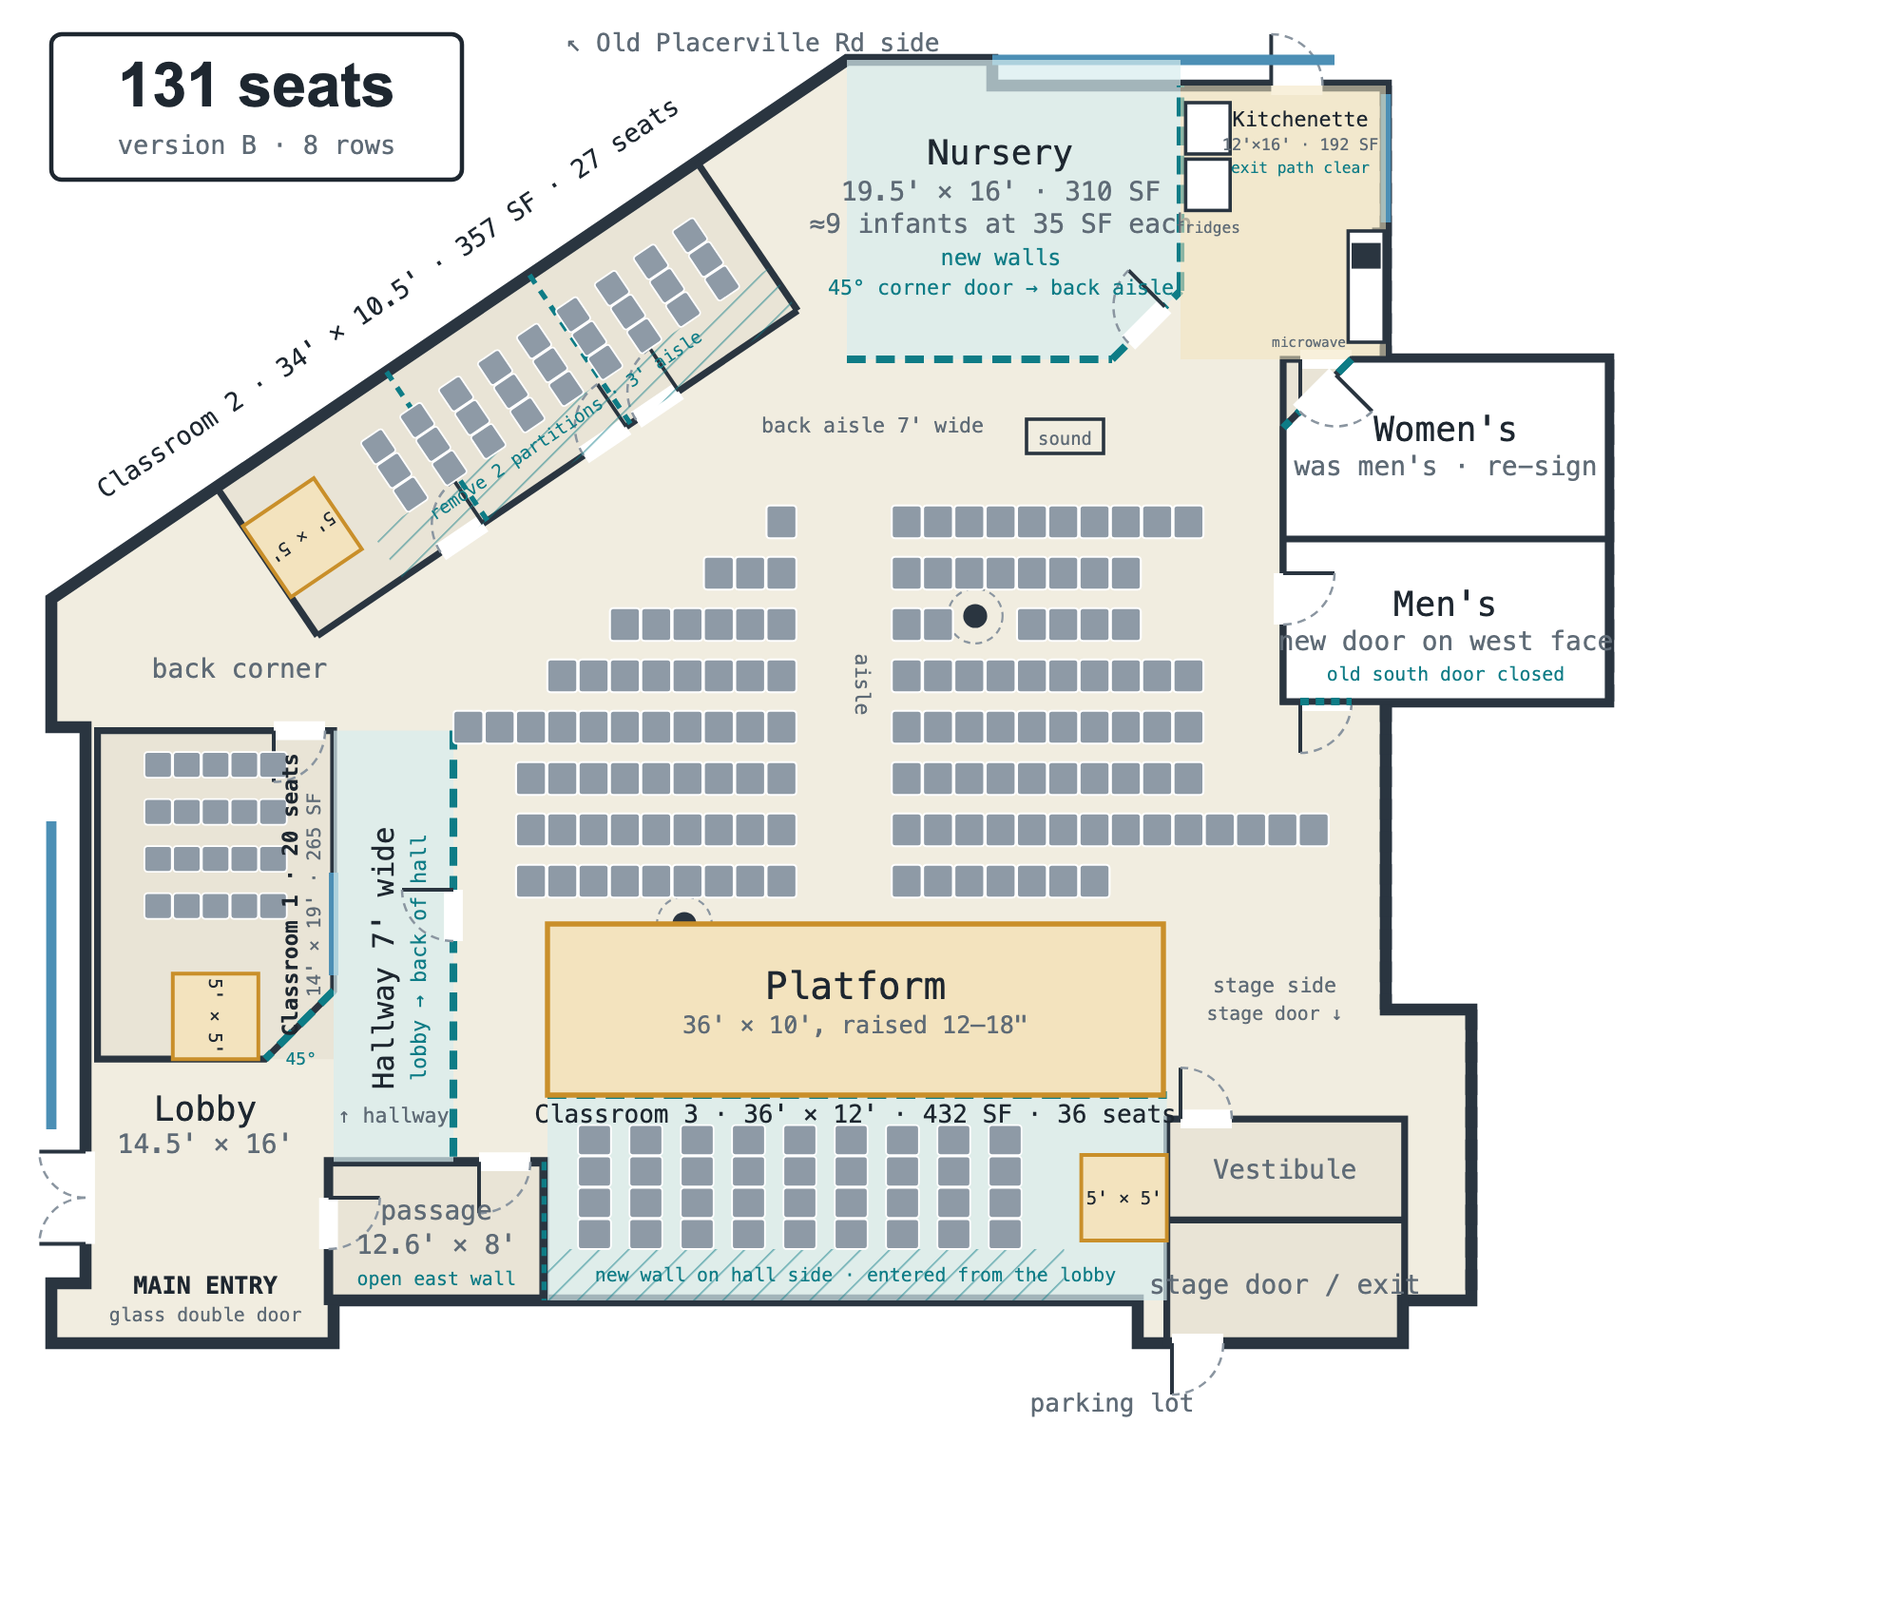
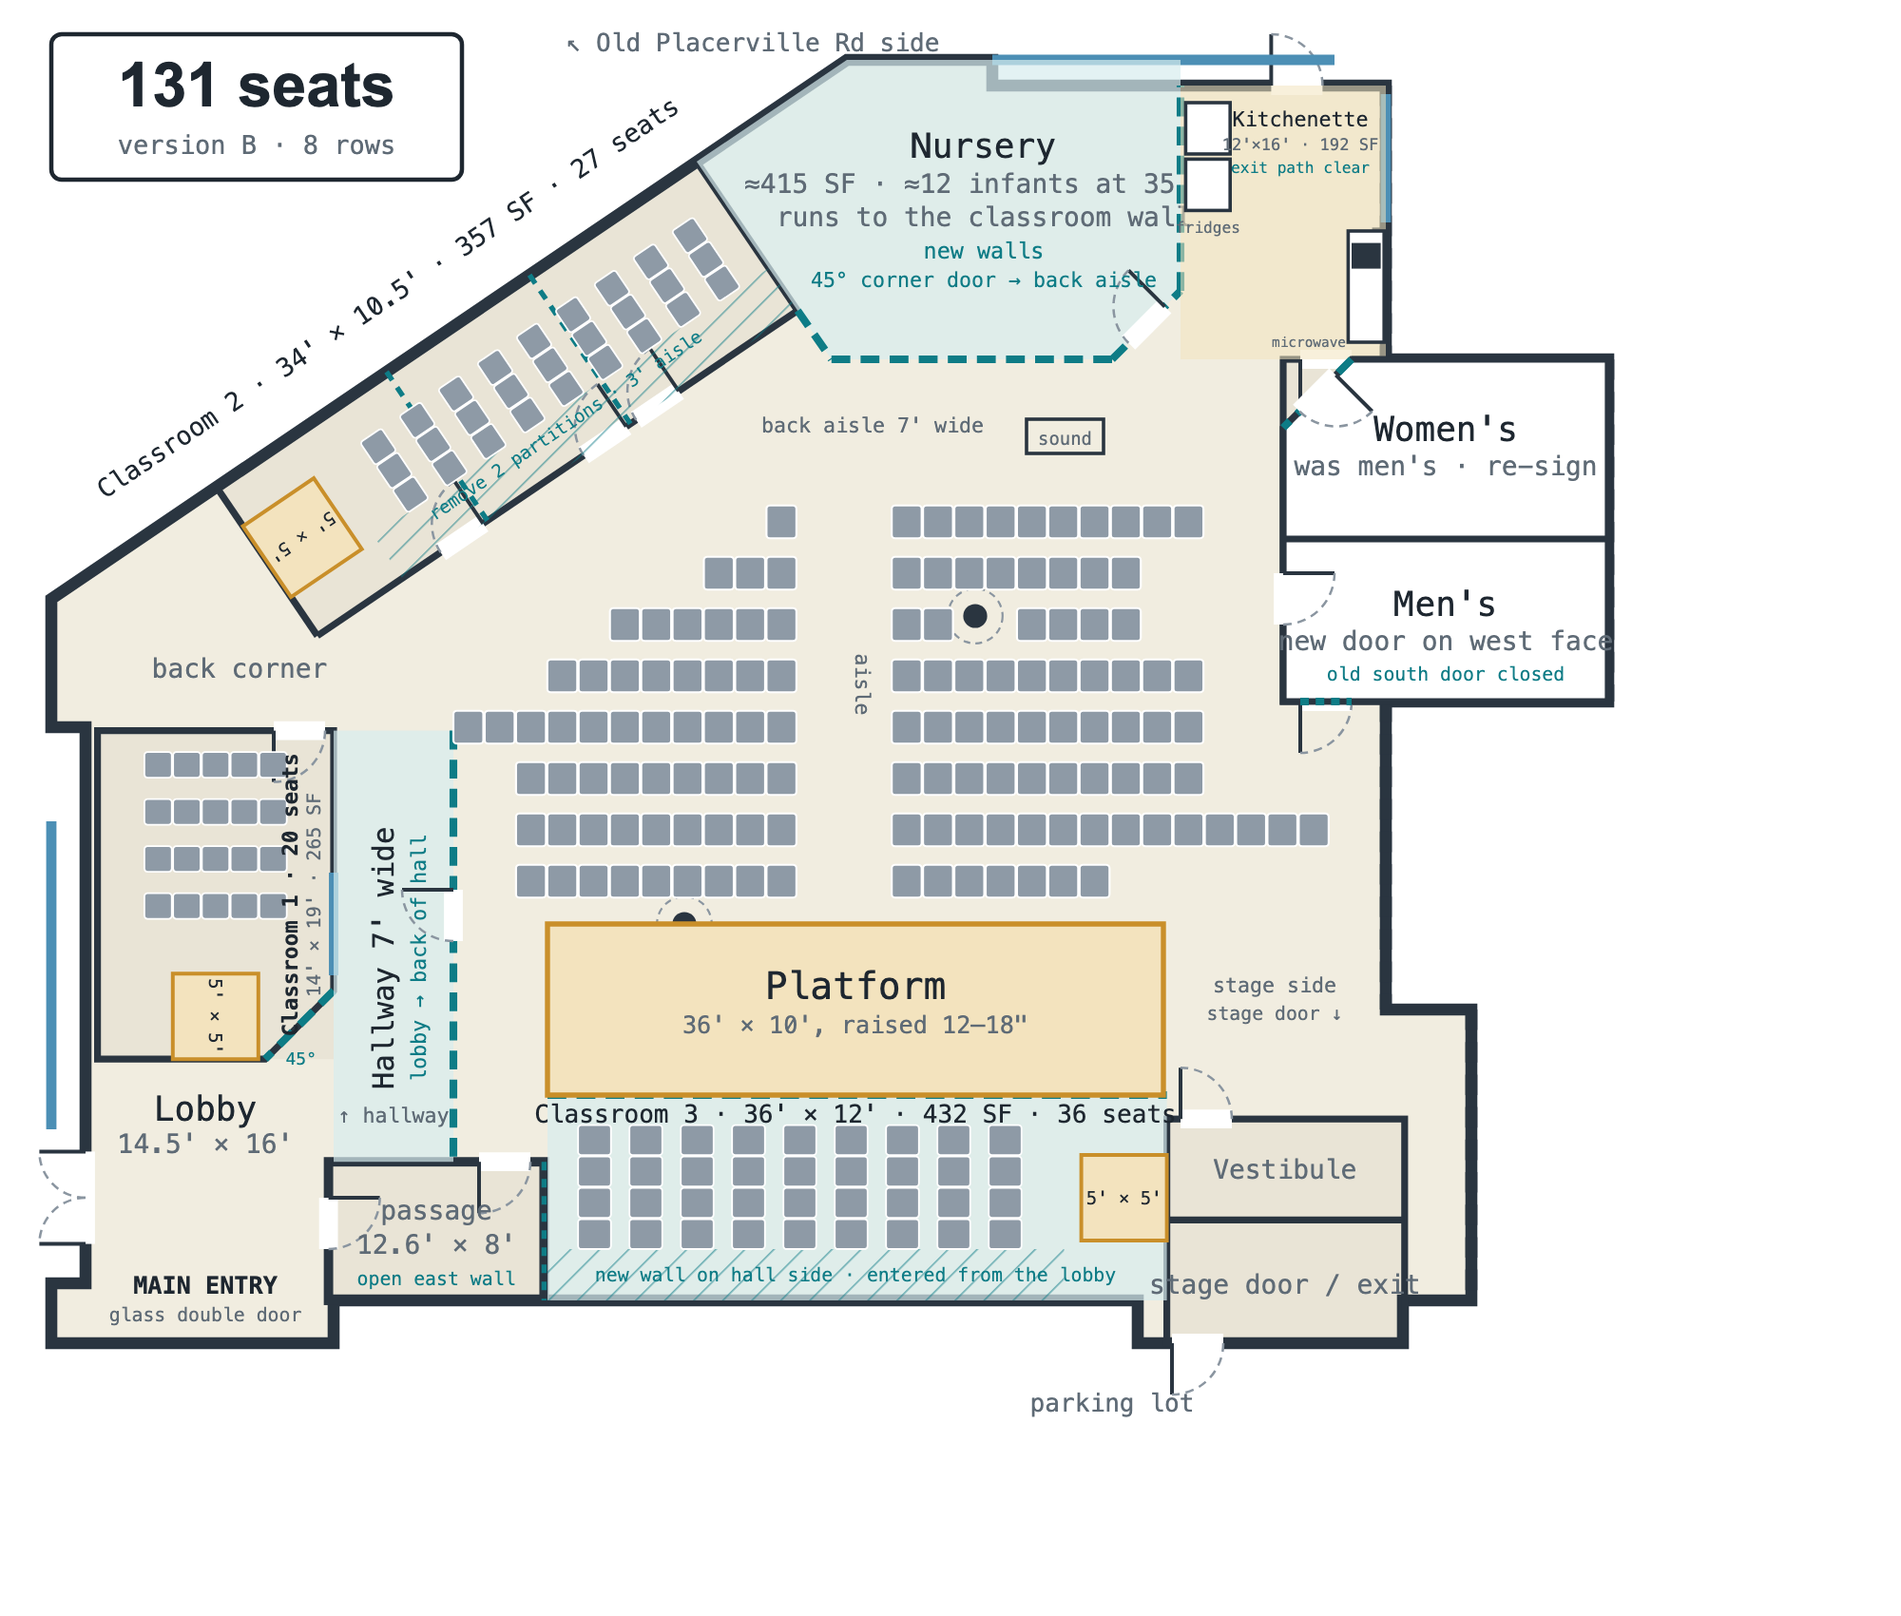
Nursery to the classroom wall, sound booth, whole-building composite

Changed region(s): [[0.372, 0.0624, 0.62, 0.1871], [0.434, 0.2182, 0.558, 0.2494], [0.403, 0.1871, 0.434, 0.2182]]

diff --git a/plans.html b/plans.html
@@ -2,7 +2,7 @@
 <html lang="en">
 <head>
 <meta charset="utf-8">
-<meta name="viewport" content="width=device-width, initial-scale=1">
+<meta name="viewport" content="width=device-width, initial-scale=1, viewport-fit=cover">
 <meta name="robots" content="noindex">
 </head>
 <body style="margin:0">
@@ -164,7 +164,8 @@
       <table>
         <thead><tr><th>Room (all options)</th><th>Size</th><th class="num">SF</th><th class="num">Seats</th></tr></thead>
         <tbody>
-          <tr><td>Nursery (north strip, 2 new walls, 45° corner door onto the back aisle; no teaching area)</td><td>19.5 × 16</td><td class="num">≈310</td><td class="num">≈9 infants</td></tr>
+          <tr><td>Nursery (north strip plus the triangle to the classroom wall, 2 new walls, 45° corner door onto the back aisle; no teaching area)</td><td>irregular</td><td class="num">≈415</td><td class="num">≈12 infants</td></tr>
+          <tr><td>Sound booth, carved out of the back middle of the seating beside the center aisle</td><td>8 × 6</td><td class="num">48</td><td class="num"></td></tr>
           <tr><td>Kitchenette (the old alcove): microwave, two refrigerators, rear exit path kept clear</td><td>12 × 16</td><td class="num">192</td><td class="num"></td></tr>
           <tr><td>Classroom 1 (existing 14 × 19 room, window into hall, corner cut at 45° toward the lobby), 5 × 5 teaching area, no aisle</td><td>14 × 19</td><td class="num">265</td><td class="num" id="seatsC1">—</td></tr>
           <tr><td>Classroom 2 (3 offices, remove 2 partitions), 5 × 5 teaching area</td><td>34 × 10.5</td><td class="num">357</td><td class="num" id="seatsC2">—</td></tr>
@@ -348,7 +349,8 @@
   const inPoly = (pt, poly) => { let c = false; for (let i = 0, j = poly.length - 1; i < poly.length; j = i++) { const a = poly[i], b = poly[j]; if ((a[1] > pt[1]) !== (b[1] > pt[1]) && pt[0] < (b[0] - a[0]) * (pt[1] - a[1]) / (b[1] - a[1]) + a[0]) c = !c; } return c; };
   const area = (poly) => Math.abs(poly.reduce((acc, p, i) => { const q = poly[(i + 1) % poly.length]; return acc + p[0] * q[1] - q[0] * p[1]; }, 0)) / 2;
   const Nn = [0.561, 0.828];
-  const HALL = [Q(10.6), [49.5, 25], [75, 25], [75, 45], [81, 45], [81, 63], [86, 63], [86, 69.4], [68.2, 69.4], [68.2, 68], [32, 68], [32, 71.9], [26.5, 71.9], [26.5, 46.7], [19.5, 46.7], Q(44.5)];
+  const BOOTH = (F) => [F.toW(-6, 7.25), F.toW(2, 7.25), F.toW(2, 13.25), F.toW(-6, 13.25)];
+  const HALL = [Q(10.6), [48.6, 25], [75, 25], [75, 45], [81, 45], [81, 63], [86, 63], [86, 69.4], [68.2, 69.4], [68.2, 68], [32, 68], [32, 71.9], [26.5, 71.9], [26.5, 46.7], [19.5, 46.7], Q(44.5)];
   const OFFICE = [[3, 39], S(44.5), Q(44.5), [19.5, 46.7], [5.7, 46.7], [5, 46.5]];
   const FACEBAND = [Q(10.6), Q(44.5), [Q(44.5)[0] + 7 * Nn[0], Q(44.5)[1] + 7 * Nn[1]], [Q(10.6)[0] + 7 * Nn[0], Q(10.6)[1] + 7 * Nn[1]]];
   const COLS = [[57, 40], [40, 58]];
@@ -363,7 +365,7 @@
     const D = [-0.828, 0.561], O = Q(10.6);
     return {
       platform, backstage, nurseryAisle, mensDoor, oldDoor,
-      keepOut: [platform, backstage, oldDoor, nurseryAisle, mensDoor, FACEBAND],
+      keepOut: [platform, backstage, oldDoor, nurseryAisle, mensDoor, FACEBAND, BOOTH({ toW: (X, Y) => [O[0] - D[0] * X + Nn[0] * Y, O[1] - D[1] * X + Nn[1] * Y] })],
       frame: { toW: (X, Y) => [O[0] - D[0] * X + Nn[0] * Y, O[1] - D[1] * X + Nn[1] * Y], rot: -34.1 },
       rows: { Y0: 8, Y1: 35, X0: -62, X1: 32, aisle: [-10, -6] }
     };
@@ -486,10 +488,11 @@
 
     // ---- shared rooms ----
     if (A1) { o += rect(49.5, 7.5, 19.5, 17.5, newFill); o += line(49.5, 25, 69, 25, newWall) + line(69, 9, 69, 25, newWall) + door(69, 18, 90, -1); }
-    else { o += poly([[49.5, 7.5], [69, 7.5], [69, 21], [65, 25], [49.5, 25]], newFill);
-    o += line(49.5, 25, 65, 25, newWall) + line(65, 25, 69, 21, newWall) + line(69, 21, 69, 9, newWall);
+    else { o += poly([[40.72, 13.45], [49.5, 7.5], [69, 7.5], [69, 21], [65, 25], [48.6, 25], [46.62, 22.15]], newFill);
+    o += line(46.62, 22.15, 48.6, 25, newWall) + line(48.6, 25, 65, 25, newWall) + line(65, 25, 69, 21, newWall) + line(69, 21, 69, 9, newWall);
     o += door(68.08, 21.92, 135, -1); }
-    o += text(58.5, 13.6, 'Nursery', lab) + text(58.5, 15.7, "19.5' × 16' · 310 SF", labS) + text(58.5, 17.6, '≈9 infants at 35 SF each', labS) + text(58.5, 19.5, 'new walls', 'fill="var(--accent)" font-size="1.3" text-anchor="middle"') + text(58.5, 21.2, '45° corner door → back aisle', 'fill="var(--accent)" font-size="1.2" text-anchor="middle"');
+    if (A1) o += text(58.5, 13.6, 'Nursery', lab) + text(58.5, 15.7, "19.5' × 17.5' · 340 SF", labS) + text(58.5, 17.6, '≈9 infants at 35 SF each', labS);
+    else o += text(57.5, 13.2, 'Nursery', lab) + text(57.5, 15.3, "≈415 SF · ≈12 infants at 35 SF", labS) + text(57.5, 17.2, 'runs to the classroom wall', labS) + text(57.5, 19.1, 'new walls', 'fill="var(--accent)" font-size="1.3" text-anchor="middle"') + text(57.5, 20.8, '45° corner door → back aisle', 'fill="var(--accent)" font-size="1.2" text-anchor="middle"');
     if (A1) { o += text(75, 13, 'family', labS) + text(75, 14.9, 'alcove', labS) + text(75, 16.8, 'rear exit ↑', 'fill="var(--muted)" font-size="1.1" text-anchor="middle"');
       o += rect(75, 25, 19, 20, 'fill="var(--panel)" stroke="none"') + rect(75, 25, 19, 20, innerAttr) + line(75, 35.5, 94, 35.5, innerAttr) + door(76, 25, 0, -1); }
     else { o = kitchenette(o, newWall, false);
@@ -524,10 +527,11 @@
     let platform, backstage = null, keepOut, frame, rows, cfg;
     if (opt === 'B') {
       platform = [[50, 68], [75, 51.1], [75, 61], [66.2, 68]];
+      // (booth keep-out is added below for A2 only)
       backstage = [[66.2, 68], [81, 58], [81, 63], [86, 63], [86, 69.4], [68.2, 69.4], [68.2, 68]];
-      keepOut = [platform, backstage, oldDoor, nurseryAisle, mensDoor, faceBand];
       const D = [-0.828, 0.561], O = Q(10.6);
       frame = { toW: (X, Y) => [O[0] - D[0] * X + Nn[0] * Y, O[1] - D[1] * X + Nn[1] * Y], rot: -34.1 };
+      keepOut = [platform, backstage, oldDoor, nurseryAisle, mensDoor, faceBand].concat(A1 ? [] : [BOOTH(frame)]);
       rows = { Y0: 8, Y1: 37, X0: -62, X1: 32, aisle: [-10, -6] };
       o += poly(platform, 'fill="var(--amber-soft)" stroke="var(--amber)" stroke-width="0.3"');
       o += poly(backstage, 'fill="var(--exist)" stroke="none"');
@@ -536,8 +540,8 @@
       o += `<text x="${pc[0]}" y="${pc[1]}" fill="var(--ink)" font-size="2.2" text-anchor="middle" transform="rotate(-34 ${pc[0]} ${pc[1]})"><tspan x="${pc[0]}" dy="-0.3">Platform</tspan><tspan x="${pc[0]}" dy="2" font-size="1.4" fill="var(--muted)">30' × 9', raised 12–18"</tspan></text>`;
       if (A1) { o += text(77, 65.5, 'backstage', 'fill="var(--muted)" font-size="1.3" text-anchor="middle"') + text(77, 67.2, 'stage door ↓', 'fill="var(--muted)" font-size="1.1" text-anchor="middle"') + text(75.1, 72.9, 'Vestibule', labS) + text(75.1, 79.6, 'stage door / exit', labS); }
       else o = platformExtras(o, newWall);
-      const sd = frame.toW(-31.5, 2.6);
-      o += `<g transform="rotate(-34.1 ${fmt(sd[0])} ${fmt(sd[1])})">${rect(fmt(sd[0]), fmt(sd[1]), 4.5, 2, 'fill="none" stroke="var(--wall)" stroke-width="0.2"')}<text x="${fmt(sd[0] + 2.25)}" y="${fmt(sd[1] + 1.5)}" fill="var(--muted)" font-size="1.05" text-anchor="middle">sound</text></g>`;
+      if (A1) { const sd = frame.toW(-31.5, 2.6); o += `<g transform="rotate(-34.1 ${fmt(sd[0])} ${fmt(sd[1])})">${rect(fmt(sd[0]), fmt(sd[1]), 4.5, 2, 'fill="none" stroke="var(--wall)" stroke-width="0.2"')}<text x="${fmt(sd[0] + 2.25)}" y="${fmt(sd[1] + 1.5)}" fill="var(--muted)" font-size="1.05" text-anchor="middle">sound</text></g>`; }
+      else { const bp = BOOTH(frame); o += poly(bp, 'fill="var(--exist)" stroke="var(--accent)" stroke-width="0.35" stroke-dasharray="0.9 0.5"'); const bc = frame.toW(-2, 10.25); o += `<text x="${fmt(bc[0])}" y="${fmt(bc[1])}" fill="var(--ink)" font-size="1.05" text-anchor="middle" transform="rotate(-34.1 ${fmt(bc[0])} ${fmt(bc[1])})"><tspan x="${fmt(bc[0])}" dy="-0.3">Sound booth</tspan><tspan x="${fmt(bc[0])}" dy="1.4">8' × 6'</tspan></text>`; }
       const bl = frame.toW(-14, 3.6);
       o += `<text x="${fmt(bl[0])}" y="${fmt(bl[1])}" fill="var(--muted)" font-size="1.2" text-anchor="middle" transform="rotate(-34.1 ${fmt(bl[0])} ${fmt(bl[1])})">back aisle 7' wide</text>`;
       const al = frame.toW(-8, 22);
@@ -639,9 +643,10 @@
     o += base('proposed');
     // rooms (short labels)
     const newWall = 'stroke="var(--accent)" stroke-width="0.45" stroke-dasharray="1.1 0.6" fill="none"';
-    o += poly([[49.5, 7.5], [69, 7.5], [69, 21], [65, 25], [49.5, 25]], 'fill="var(--accent-soft)" stroke="none" opacity="0.7"');
-    o += line(49.5, 25, 65, 25, newWall) + line(65, 25, 69, 21, newWall) + line(69, 21, 69, 9, newWall) + door(68.08, 21.92, 135, -1);
-    o += text(59.2, 15.5, 'Nursery', lab) + text(59.2, 17.5, "19.5' × 16' · ≈9 infants", labS);
+    o += poly([[40.72, 13.45], [49.5, 7.5], [69, 7.5], [69, 21], [65, 25], [48.6, 25], [46.62, 22.15]], 'fill="var(--accent-soft)" stroke="none" opacity="0.7"');
+    o += line(46.62, 22.15, 48.6, 25, newWall) + line(48.6, 25, 65, 25, newWall) + line(65, 25, 69, 21, newWall) + line(69, 21, 69, 9, newWall) + door(68.08, 21.92, 135, -1);
+    o += text(57.5, 15.5, 'Nursery', lab) + text(57.5, 17.5, "≈415 SF · ≈12 infants", labS);
+    { const bp = BOOTH(F); o += poly(bp, 'fill="var(--exist)" stroke="var(--accent)" stroke-width="0.35" stroke-dasharray="0.9 0.5"'); const bc = F.toW(-2, 10.25); o += `<text x="${fmt(bc[0])}" y="${fmt(bc[1])}" fill="var(--ink)" font-size="1.05" text-anchor="middle" transform="rotate(-34.1 ${fmt(bc[0])} ${fmt(bc[1])})"><tspan x="${fmt(bc[0])}" dy="-0.3">SOUND BOOTH</tspan><tspan x="${fmt(bc[0])}" dy="1.4">8' × 6'</tspan></text>`; }
     o = kitchenette(o, newWall, true);
     o += poly([[79, 25], [94, 25], [94, 45], [75, 45], [75, 29]], 'fill="var(--panel)" stroke="none"') + poly([[79, 25], [94, 25], [94, 45], [75, 45], [75, 29]], innerAttr) + line(75, 35.5, 94, 35.5, innerAttr) + line(79, 25, 75, 29, newWall);
     o += door(78.08, 25.92, 135, 1) + door(75, 37.5, 90, 1) + line(76, 45, 79, 45, 'stroke="var(--accent)" stroke-width="0.45" stroke-dasharray="0.5 0.4"');

diff --git a/index.html b/index.html
@@ -63,7 +63,7 @@
   const Q = (s) => { const p = S(s); return [p[0] + 5.9, p[1] + 8.7]; };
   const Nn = [0.561, 0.828];
   const OUTLINE = [[49.5, 7.5], [58, 7.5], [58, 9], [81, 9], [81, 25], [94, 25], [94, 45], [81, 45], [81, 63], [86, 63], [86, 80], [82, 80], [82, 82.5], [66.5, 82.5], [66.5, 80], [19.5, 80], [19.5, 82.5], [3, 82.5], [3, 79], [5, 79], [5, 46.5], [3, 46.5], [3, 39]];
-  const HALL = [Q(10.6), [49.5, 25], [75, 25], [75, 45], [81, 45], [81, 63], [86, 63], [86, 69.4], [68.2, 69.4], [68.2, 68], [32, 68], [32, 71.9], [26.5, 71.9], [26.5, 46.7], [19.5, 46.7], Q(44.5)];
+  const HALL = [Q(10.6), [48.6, 25], [75, 25], [75, 45], [81, 45], [81, 63], [86, 63], [86, 69.4], [68.2, 69.4], [68.2, 68], [32, 68], [32, 71.9], [26.5, 71.9], [26.5, 46.7], [19.5, 46.7], Q(44.5)];
   const OFFICE = [[3, 39], S(44.5), Q(44.5), [19.5, 46.7], [5.7, 46.7], [5, 46.5]];
   const FACEBAND = [Q(10.6), Q(44.5), [Q(44.5)[0] + 7 * Nn[0], Q(44.5)[1] + 7 * Nn[1]], [Q(10.6)[0] + 7 * Nn[0], Q(10.6)[1] + 7 * Nn[1]]];
   const COLS = [[57, 40], [40, 58]];
@@ -71,9 +71,11 @@
   const inPoly = (pt, poly) => { let c = false; for (let i = 0, j = poly.length - 1; i < poly.length; j = i++) { const a = poly[i], b = poly[j]; if ((a[1] > pt[1]) !== (b[1] > pt[1]) && pt[0] < (b[0] - a[0]) * (pt[1] - a[1]) / (b[1] - a[1]) + a[0]) c = !c; } return c; };
   const platform = [[50, 68], [75, 51.1], [75, 61], [66.2, 68]];
   const backstage = [[66.2, 68], [81, 58], [81, 63], [86, 63], [86, 69.4], [68.2, 69.4], [68.2, 68]];
+  const BOOTHP = [[-6, 7.25], [2, 7.25], [2, 13.25], [-6, 13.25]];
   const keepOut = [platform, backstage, [[75, 45], [81, 45], [81, 50.5], [75, 50.5]], [[46.6, 25], [75, 25], [75, 28.5], [46.6, 28.5]], [[70.5, 35], [75, 35], [75, 42], [70.5, 42]], FACEBAND];
   const D = [-0.828, 0.561], O = Q(10.6);
   const toW = (X, Y) => [O[0] - D[0] * X + Nn[0] * Y, O[1] - D[1] * X + Nn[1] * Y];
+  keepOut.push(BOOTHP.map(p => toW(p[0], p[1])));
   const rows = { Y0: 8, Y1: 35, X0: -62, X1: 32, aisle: [-10, -6] };
   function placeHallChairs() {
     const out = [];
@@ -162,7 +164,7 @@
   flat(rectPts(19.2, 71.9, 31.8, 80), M.room, 0.03);
   flat(rectPts(75, 25, 94, 45), M.room, 0.03);
   flat(rectPts(68.2, 69.4, 82.1, 82.5), M.room, 0.03);
-  flat([[49.5, 7.5], [69, 7.5], [69, 21], [65, 25], [49.5, 25]], M.newroom, 0.03);
+  flat([[40.72, 13.45], [49.5, 7.5], [69, 7.5], [69, 21], [65, 25], [48.6, 25], [46.62, 22.15]], M.newroom, 0.03);
   flat(rectPts(69, 9, 81, 25), M.room, 0.03);
   flat(rectPts(19.5, 46.7, 26.5, 71.9), M.newroom, 0.03);
   flat(rectPts(32, 68, 68.2, 80), M.newroom, 0.03);
@@ -197,7 +199,9 @@
   inn([68.2, 69.4], [82.1, 69.4], [[0.8, 3.8]]); inn([68.2, 69.4], [68.2, 82.5]); inn([82.1, 69.4], [82.1, 82.5]); inn([68.2, 75.3], [82.1, 75.3]);
   // new walls (option B)
   const nw = (a, b, gaps) => wall(a[0], a[1], b[0], b[1], HI, 0.45, M.newWall, gaps);
-  nw([49.5, 25], [65, 25]); nw([65, 25], [69, 21], [[1.3, 4.3]]); nw([69, 9], [69, 21]);
+  nw([46.62, 22.15], [48.6, 25]); nw([48.6, 25], [65, 25]); nw([65, 25], [69, 21], [[1.3, 4.3]]); nw([69, 9], [69, 21]);
+  // sound booth: 8 x 6 ft, 3.5 ft half walls, at the back middle of the seating beside the center aisle
+  { const c = toW(-2, 10.25); const b = box(8, 3.5, 6, new THREE.MeshLambertMaterial({ color: 0x4a5560 }), c[0], 1.75, c[1], -Math.atan2(-D[1], -D[0])); const desk = box(7.5, 0.2, 2.2, new THREE.MeshLambertMaterial({ color: 0xcfc6b4 }), c[0], 2.6, c[1]); desk.rotation.y = b.rotation.y; }
   // kitchenette: two refrigerators, counter with microwave
   [[11.5], [14.7]].forEach(([z]) => { const f = new THREE.Mesh(new THREE.BoxGeometry(2.5, 6, 3), new THREE.MeshLambertMaterial({ color: 0xd8dbe0 })); f.position.set(70.3, 3, z); f.castShadow = true; scene.add(f); });
   { const ct = new THREE.Mesh(new THREE.BoxGeometry(2, 3, 6.5), new THREE.MeshLambertMaterial({ color: 0xcfc6b4 })); ct.position.set(79.9, 1.5, 20.75); ct.castShadow = true; scene.add(ct); const mw = new THREE.Mesh(new THREE.BoxGeometry(1.6, 1.2, 1.8), new THREE.MeshLambertMaterial({ color: 0x2a2f36 })); mw.position.set(79.9, 3.6, 19); scene.add(mw); }
@@ -233,7 +237,7 @@
   // labels as sprites
   function label(txt, x, z, y, scale) { const cv = document.createElement('canvas'); cv.width = 512; cv.height = 128; const cx = cv.getContext('2d'); cx.fillStyle = 'rgba(15,20,25,0.72)'; cx.fillRect(0, 0, 512, 128); cx.font = '600 54px Archivo, Arial, sans-serif'; cx.fillStyle = '#F3F6F8'; cx.textAlign = 'center'; cx.textBaseline = 'middle'; cx.fillText(txt, 256, 64);
     const sp = new THREE.Sprite(new THREE.SpriteMaterial({ map: new THREE.CanvasTexture(cv), depthTest: false })); sp.position.set(x, y || 11, z); const s = scale || 1; sp.scale.set(14 * s, 3.5 * s, 1); scene.add(sp); return sp; }
-  label('PLATFORM', 64, 61, 6); label('NURSERY', 59, 16); label('CLASSROOM 1', 12.6, 56); label('CLASSROOM 2', 29, 29); label('CLASSROOM 3', 50, 74); label('LOBBY', 12, 73); label('HALLWAY', 23, 59, 10, 0.7);
+  label('PLATFORM', 64, 61, 6); label('NURSERY', 57.5, 16); label('SOUND BOOTH', toW(-2, 10.25)[0], toW(-2, 10.25)[1], 7, 0.6); label('CLASSROOM 1', 12.6, 56); label('CLASSROOM 2', 29, 29); label('CLASSROOM 3', 50, 74); label('LOBBY', 12, 73); label('HALLWAY', 23, 59, 10, 0.7);
   label("WOMEN'S", 84.5, 30, 10, 0.8); label("MEN'S", 84.5, 40.5, 10, 0.8); label('KITCHENETTE', 75, 15, 10, 0.75); label('MAIN ENTRY', 4, 74, 7, 0.8); label('STORAGE / OFFICE', 76.5, 65, 10, 0.7); label('STORAGE ENTRY', 75, 76, 10, 0.7); label("PASTOR'S OFFICE", 11, 41, 10, 0.75); label('PIANO', 71, 59, 7, 0.6);
 
   document.getElementById('count').textContent = `${hallSeats.length} chairs + ${wc.length} wheelchair spaces in the hall · ${classSeats} classroom seats`;
